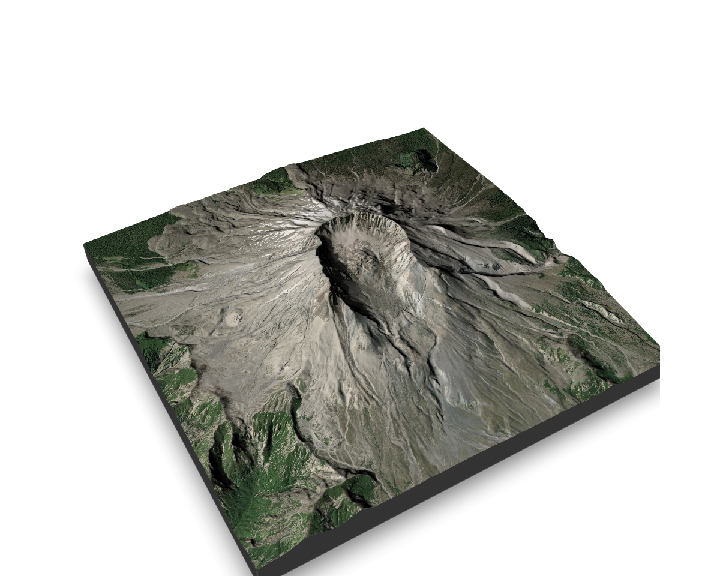
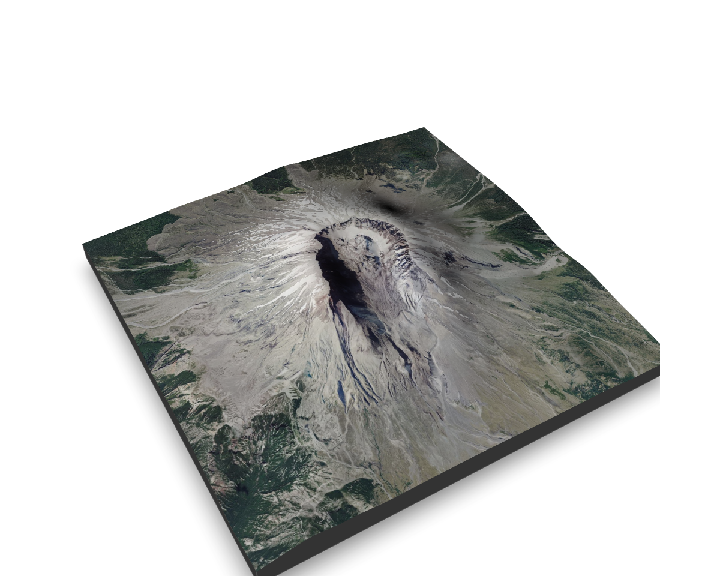
readme update

Changed region(s): [[0.1222, 0.2188, 0.9167, 1.0]]

diff --git a/README.md b/README.md
@@ -69,7 +69,7 @@ set_canvas_centroid(.lat, .long, radius = 7000)
 get_canvas()$extent
 
 tc <- topo_matrix(20)
-ov <- map_drape(5)
+ov <- map_drape(10)
 
 plot_3d(ov, tc, zscale=20*0.75,  windowsize = 1000,
         theta=150, phi=45, zoom=0.7, fov=50)
@@ -93,6 +93,30 @@ render_snapshot(clear=TRUE)
 
 ![](man/figures/MtStHelensShade-1.png)<!-- -->
 
+Blending layers by altitude…
+
+``` r
+ov_osm <- map_drape(20, src='wms_openstreetmap_tms')
+
+# scico::scico(5, palette = 'vikO')
+texture <- sphere_shade(tc, texture = create_texture("#4E193D", "#4474A0", "#D4BEB4", "#A24C2C", "#50193B")) %>%
+  add_shadow(ray_shade(tc, zscale=20*0.75, sunangle=95, sunaltitude= 30,
+                       multicore = T), 0) %>%
+  add_shadow(texture_shade(tc, detail=0.9, contrast = 5, brightness = 10),0) %>%
+  add_overlay(generate_altitude_overlay(ov_osm, tc, start_transition=max(tc)*0.8,
+                                        end_transition = max(tc)*0.2)) %>%
+  add_overlay(generate_altitude_overlay(ov, tc, start_transition=max(tc)*0.99,
+                                        end_transition = max(tc)*0.72), rescale_original = T)
+
+plot_3d(texture, tc, triangulate = T, solid = FALSE, 
+        zscale=20*0.75,  windowsize = 1000,
+          theta=150, phi=45, zoom=0.7, fov=50)
+
+render_depth(focallength = 200, clear = TRUE)
+```
+
+![](man/figures/MtStHelensBlending-1.png)<!-- -->
+
 Global hill shade using the Adams World in a Square II projection.
 
 ``` r
@@ -108,7 +132,7 @@ tm %>%
   add_shadow(lamb_shade(tm, sunaltitude=25, zscale=0.8)) %>%
   add_overlay(generate_polygon_overlay(grats, canvasExent(),tm, 
                                        linecolor="#900C3F", palette = NA),  alphalayer = 0.7) %>%
-  plot_map(title_text = 'Adams World in a Square II', title_color='#900C3F')
+  plot_map(title_text = 'Adams World in a Square II', title_color='grey80')
 ```
 
 <img src="man/figures/AdamsWorld-1.png" width="800" />
